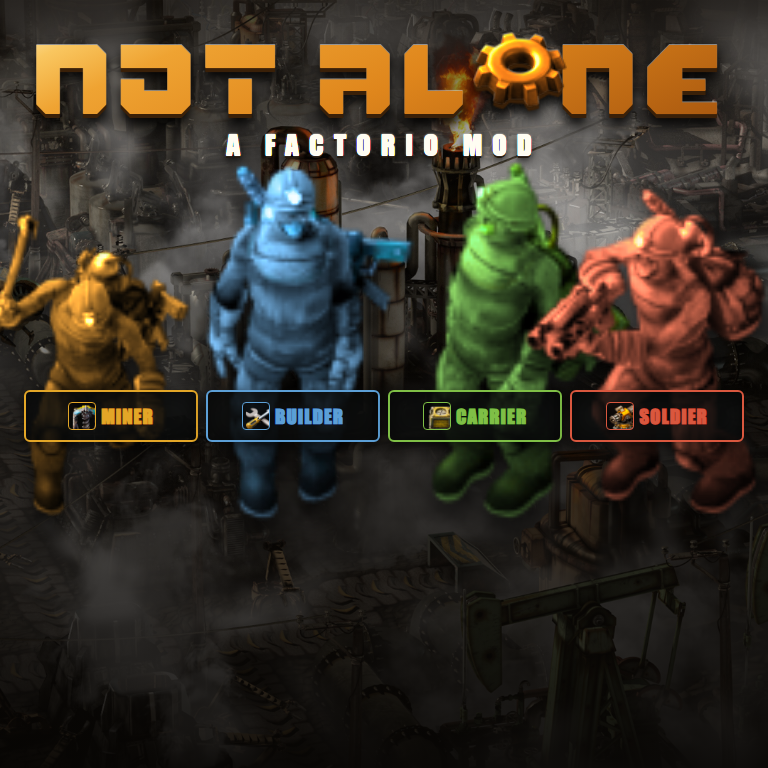
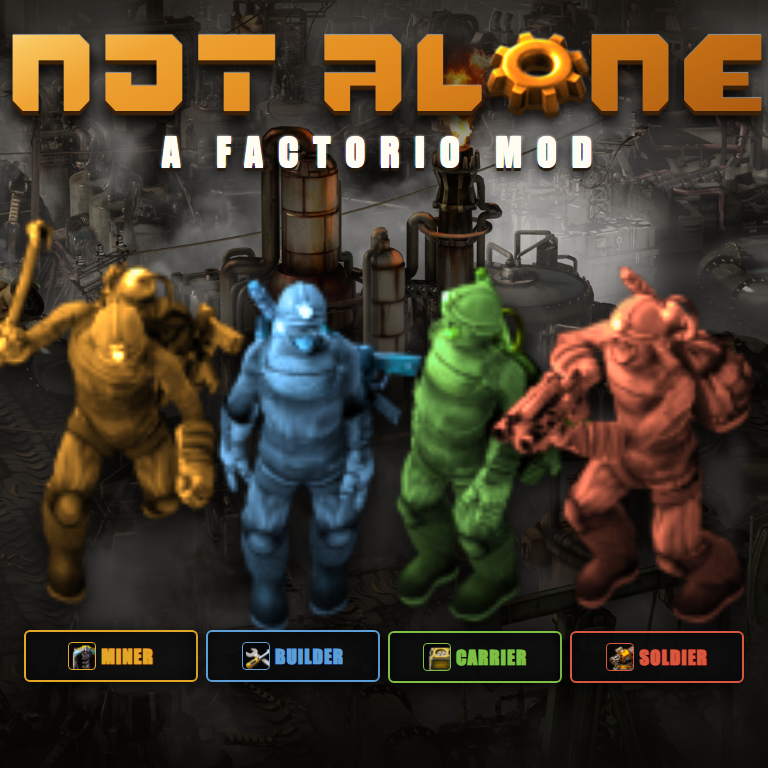
Add wheel scaling and persistent edit profile for image builder

diff --git a/image-builder/banner.html b/image-builder/banner.html
@@ -6,6 +6,7 @@
 * { box-sizing: border-box; margin: 0; }
 html, body { width: 1152px; height: 768px; overflow: hidden; }
 body { position: relative; font-family: "Arial Narrow", Arial, sans-serif; background: #1a1611; }
+@font-face { font-family: "Full Automation"; src: url("assets/FullAutomation-Squared.otf") format("opentype"); font-weight: normal; font-style: normal; }
 
 /* Real game menu-background screenshot, darkened toward the card band */
 .bg { position: absolute; inset: 0; background: url("assets/bg.jpg") center/cover; }
@@ -14,11 +15,11 @@ body { position: relative; font-family: "Arial Narrow", Arial, sans-serif; backg
 
 /* Title: stone-orange Factorio-style lettering, gear sprite as the O of ALONE */
 .title { position: absolute; z-index: 3; top: 18px; left: 0; right: 0; text-align: center;
-  font-family: Impact, "Arial Black", sans-serif; font-size: 132px; line-height: 1; letter-spacing: 8px;
+  font-family: "Full Automation", Impact, "Arial Black", sans-serif; font-size: 132px; line-height: 1; letter-spacing: 8px;
   color: #e08a1e;
-  background: linear-gradient(180deg, #f5b34a 8%, #e08a1e 45%, #9c5410 88%);
+  background: linear-gradient(155deg, #ffe9ad 4%, #f9c65f 12%, #efa332 24%, #df861c 52%, #a9580f 92%);
   -webkit-background-clip: text; -webkit-text-fill-color: transparent;
-  filter: drop-shadow(0 4px 0 #3a2008) drop-shadow(0 7px 6px rgba(0,0,0,.85)); }
+  filter: drop-shadow(0 -1px 0 rgba(255,255,255,.45)) drop-shadow(0 4px 0 #3a2008) drop-shadow(0 7px 6px rgba(0,0,0,.85)); }
 .title .gear { display: inline-block; width: 128px; height: 128px; vertical-align: -8px; margin: 0 -8px;
   background: url("assets/gear.png") no-repeat 0 0; background-size: 240px 128px;
   filter: sepia(1) saturate(4.2) hue-rotate(-14deg) brightness(1.02); }
@@ -60,38 +61,40 @@ body { position: relative; font-family: "Arial Narrow", Arial, sans-serif; backg
 .slogan b { display: block; font-family: Impact, "Arial Black", sans-serif; font-size: 37px; letter-spacing: 2.5px; color: #e0961f; text-shadow: 0 3px 0 #2a1a08; }
 .slogan span { display: block; margin-top: 4px; font-size: 20px; letter-spacing: 3.5px; color: #cbc4b4; font-weight: bold; }
 .brand { width: 220px; height: 43px; margin-right: 22px; background: url("assets/logo.png") no-repeat center/contain; }
+[data-drag] { cursor: grab; touch-action: none; }
+[data-drag].is-dragging { cursor: grabbing; }
 </style>
 </head>
 <body>
   <div class="bg"></div>
 
-  <div class="title">NOT&nbsp;AL<span class="gear"></span>NE</div>
-  <div class="subtitle">A&nbsp;FACTORIO&nbsp;MOD</div>
+  <div class="title" data-drag="title">NOT&nbsp;AL<span class="gear" data-drag="gear"></span>NE</div>
+  <div class="subtitle" data-drag="subtitle">A&nbsp;FACTORIO&nbsp;MOD</div>
 
   <div class="factory">
-    <div class="sprite mate mate-mining"></div>
-    <div class="sprite mate mate-idle-1"></div>
-    <div class="sprite mate mate-idle-2"></div>
-    <div class="sprite mate mate-gun"></div>
+    <div class="sprite mate mate-mining" data-drag="miner"></div>
+    <div class="sprite mate mate-idle-1" data-drag="builder"></div>
+    <div class="sprite mate mate-idle-2" data-drag="carrier"></div>
+    <div class="sprite mate mate-gun" data-drag="soldier"></div>
   </div>
 
   <div class="cards">
-    <div class="card" style="--c:#e3a627">
+    <div class="card" data-drag="miner-card" style="--c:#e3a627">
       <div class="head"><div class="icon" style="background-image:url('assets/icon-miner.png')"></div><b>MINER</b></div>
       <p>Extracts resources from the ground.</p>
       <ul><li>Mines ore</li><li>Works mining drills</li><li>Gathers raw materials</li></ul>
     </div>
-    <div class="card" style="--c:#5c9fd6">
+    <div class="card" data-drag="builder-card" style="--c:#5c9fd6">
       <div class="head"><div class="icon" style="background-image:url('assets/icon-builder.png')"></div><b>BUILDER</b></div>
       <p>Builds and repairs structures.</p>
       <ul><li>Places entities</li><li>Repairs damage</li><li>Constructs the factory</li></ul>
     </div>
-    <div class="card" style="--c:#7fbf46">
+    <div class="card" data-drag="carrier-card" style="--c:#7fbf46">
       <div class="head"><div class="icon" style="background-image:url('assets/icon-carrier.png')"></div><b>CARRIER</b></div>
       <p>Moves items where they need to go.</p>
       <ul><li>Carries items</li><li>Feeds machines</li><li>Supports logistics</li></ul>
     </div>
-    <div class="card" style="--c:#d9573e">
+    <div class="card" data-drag="soldier-card" style="--c:#d9573e">
       <div class="head"><div class="icon" style="background-image:url('assets/icon-soldier.png')"></div><b>SOLDIER</b></div>
       <p>Protects the crew and the factory.</p>
       <ul><li>Fights biters</li><li>Defends bases</li><li>Keeps everyone alive</li></ul>
@@ -106,4 +109,123 @@ body { position: relative; font-family: "Arial Narrow", Arial, sans-serif; backg
     <div class="brand"></div>
   </div>
 </body>
+<script>
+(() => {
+  const storageKey = "not-alone-layout-v1";
+  const layoutName = "banner";
+  const historyKey = `${storageKey}-history`;
+  const stored = JSON.parse(localStorage.getItem(storageKey) || "{}");
+  const legacy = JSON.parse(localStorage.getItem("not-alone-banner-layout-v1") || "{}");
+  const saved = stored[layoutName] || legacy;
+  const history = JSON.parse(localStorage.getItem(historyKey) || "[]");
+  const elements = new Map();
+
+  const save = () => {
+    stored[layoutName] = saved;
+    localStorage.setItem(storageKey, JSON.stringify(stored));
+  };
+  const saveHistory = () => localStorage.setItem(historyKey, JSON.stringify(history));
+  const applyOffset = (element, name) => {
+    const offset = saved[name] || {x: 0, y: 0, scale: 1};
+    if (offset.scale === undefined) offset.scale = 1;
+    saved[name] = offset;
+    element.style.translate = `${offset.x}px ${offset.y}px`;
+    element.style.scale = String(offset.scale);
+  };
+  const record = (name, offset) => {
+    history.push({layout: layoutName, name, x: offset.x, y: offset.y, scale: offset.scale ?? 1});
+    if (history.length > 100) history.shift();
+    saveHistory();
+  };
+
+  document.querySelectorAll("[data-drag]").forEach((element) => {
+    const name = element.dataset.drag;
+    elements.set(name, element);
+    applyOffset(element, name);
+    element.addEventListener("pointerdown", (event) => {
+      if (name === "gear") event.stopPropagation();
+      element.setPointerCapture(event.pointerId);
+      element.classList.add("is-dragging");
+      const start = saved[name] || {x: 0, y: 0, scale: 1};
+      const originX = event.clientX;
+      const originY = event.clientY;
+      const axisLocked = event.ctrlKey;
+      let axis = null;
+      const move = (moveEvent) => {
+        const deltaX = moveEvent.clientX - originX;
+        const deltaY = moveEvent.clientY - originY;
+        if (axisLocked && !axis && (deltaX || deltaY)) {
+          axis = Math.abs(deltaX) >= Math.abs(deltaY) ? "x" : "y";
+        }
+        saved[name] = {
+          x: Math.round(start.x + (axis === "y" ? 0 : deltaX)),
+          y: Math.round(start.y + (axis === "x" ? 0 : deltaY)),
+          scale: start.scale ?? 1
+        };
+        applyOffset(element, name);
+      };
+      const end = () => {
+        element.classList.remove("is-dragging");
+        element.removeEventListener("pointermove", move);
+        element.removeEventListener("pointerup", end);
+        element.removeEventListener("pointercancel", end);
+        const finish = saved[name];
+        if (finish.x !== start.x || finish.y !== start.y) record(name, start);
+        save();
+      };
+      element.addEventListener("pointermove", move);
+      element.addEventListener("pointerup", end);
+      element.addEventListener("pointercancel", end);
+    });
+    element.addEventListener("dblclick", (event) => {
+      event.stopPropagation();
+      const previous = saved[name] || {x: 0, y: 0, scale: 1};
+      if (previous.x || previous.y || previous.scale !== 1) record(name, previous);
+      saved[name] = {x: 0, y: 0, scale: 1};
+      applyOffset(element, name);
+      save();
+    });
+    let wheelStart = null;
+    let wheelTimer = null;
+    element.addEventListener("wheel", (event) => {
+      event.preventDefault();
+      event.stopPropagation();
+      const current = saved[name] || {x: 0, y: 0, scale: 1};
+      if (current.scale === undefined) current.scale = 1;
+      if (!wheelStart) wheelStart = {x: current.x, y: current.y, scale: current.scale};
+      const factor = event.deltaY < 0 ? 1.05 : 1 / 1.05;
+      const nextScale = Math.min(6, Math.max(0.15, Math.round(current.scale * factor * 100) / 100));
+      saved[name] = {x: current.x, y: current.y, scale: nextScale};
+      applyOffset(element, name);
+      clearTimeout(wheelTimer);
+      wheelTimer = setTimeout(() => {
+        if (saved[name].scale !== wheelStart.scale) record(name, wheelStart);
+        wheelStart = null;
+        save();
+      }, 400);
+    }, {passive: false});
+  });
+
+  document.addEventListener("keydown", (event) => {
+    if (!(event.ctrlKey && event.key.toLowerCase() === "z") || event.repeat) return;
+    event.preventDefault();
+    let actionIndex = -1;
+    for (let index = history.length - 1; index >= 0; index -= 1) {
+      if (history[index].layout === layoutName || !history[index].layout) {
+        actionIndex = index;
+        break;
+      }
+    }
+    if (actionIndex < 0) return;
+    const action = history.splice(actionIndex, 1)[0];
+    if (!action) return;
+    const element = elements.get(action.name);
+    if (!element) return;
+    saved[action.name] = {x: action.x, y: action.y, scale: action.scale ?? 1};
+    applyOffset(element, action.name);
+    save();
+    saveHistory();
+  });
+})();
+</script>
 </html>

diff --git a/image-builder/thumbnail.html b/image-builder/thumbnail.html
@@ -90,21 +90,29 @@ body { position: relative; font-family: "Arial Narrow", Arial, sans-serif; backg
 </body>
 <script>
 (() => {
-  const storageKey = "not-alone-thumbnail-layout-v1";
+  const storageKey = "not-alone-layout-v1";
+  const layoutName = "thumbnail";
   const historyKey = `${storageKey}-history`;
-  const saved = JSON.parse(localStorage.getItem(storageKey) || "{}");
+  const stored = JSON.parse(localStorage.getItem(storageKey) || "{}");
+  const legacy = JSON.parse(localStorage.getItem("not-alone-thumbnail-layout-v1") || "{}");
+  const saved = stored[layoutName] || legacy;
   const history = JSON.parse(localStorage.getItem(historyKey) || "[]");
   const elements = new Map();
 
-  const save = () => localStorage.setItem(storageKey, JSON.stringify(saved));
+  const save = () => {
+    stored[layoutName] = saved;
+    localStorage.setItem(storageKey, JSON.stringify(stored));
+  };
   const saveHistory = () => localStorage.setItem(historyKey, JSON.stringify(history));
   const applyOffset = (element, name) => {
-    const offset = saved[name] || {x: 0, y: 0};
+    const offset = saved[name] || {x: 0, y: 0, scale: 1};
+    if (offset.scale === undefined) offset.scale = 1;
     saved[name] = offset;
     element.style.translate = `${offset.x}px ${offset.y}px`;
+    element.style.scale = String(offset.scale);
   };
   const record = (name, offset) => {
-    history.push({name, x: offset.x, y: offset.y});
+    history.push({layout: layoutName, name, x: offset.x, y: offset.y, scale: offset.scale ?? 1});
     if (history.length > 100) history.shift();
     saveHistory();
   };
@@ -117,7 +125,7 @@ body { position: relative; font-family: "Arial Narrow", Arial, sans-serif; backg
       if (name === "gear") event.stopPropagation();
       element.setPointerCapture(event.pointerId);
       element.classList.add("is-dragging");
-      const start = saved[name] || {x: 0, y: 0};
+      const start = saved[name] || {x: 0, y: 0, scale: 1};
       const originX = event.clientX;
       const originY = event.clientY;
       const axisLocked = event.ctrlKey;
@@ -130,7 +138,8 @@ body { position: relative; font-family: "Arial Narrow", Arial, sans-serif; backg
         }
         saved[name] = {
           x: Math.round(start.x + (axis === "y" ? 0 : deltaX)),
-          y: Math.round(start.y + (axis === "x" ? 0 : deltaY))
+          y: Math.round(start.y + (axis === "x" ? 0 : deltaY)),
+          scale: start.scale ?? 1
         };
         applyOffset(element, name);
       };
@@ -149,22 +158,49 @@ body { position: relative; font-family: "Arial Narrow", Arial, sans-serif; backg
     });
     element.addEventListener("dblclick", (event) => {
       event.stopPropagation();
-      const previous = saved[name] || {x: 0, y: 0};
-      if (previous.x || previous.y) record(name, previous);
-      saved[name] = {x: 0, y: 0};
+      const previous = saved[name] || {x: 0, y: 0, scale: 1};
+      if (previous.x || previous.y || previous.scale !== 1) record(name, previous);
+      saved[name] = {x: 0, y: 0, scale: 1};
       applyOffset(element, name);
       save();
     });
+    let wheelStart = null;
+    let wheelTimer = null;
+    element.addEventListener("wheel", (event) => {
+      event.preventDefault();
+      event.stopPropagation();
+      const current = saved[name] || {x: 0, y: 0, scale: 1};
+      if (current.scale === undefined) current.scale = 1;
+      if (!wheelStart) wheelStart = {x: current.x, y: current.y, scale: current.scale};
+      const factor = event.deltaY < 0 ? 1.05 : 1 / 1.05;
+      const nextScale = Math.min(6, Math.max(0.15, Math.round(current.scale * factor * 100) / 100));
+      saved[name] = {x: current.x, y: current.y, scale: nextScale};
+      applyOffset(element, name);
+      clearTimeout(wheelTimer);
+      wheelTimer = setTimeout(() => {
+        if (saved[name].scale !== wheelStart.scale) record(name, wheelStart);
+        wheelStart = null;
+        save();
+      }, 400);
+    }, {passive: false});
   });
 
   document.addEventListener("keydown", (event) => {
     if (!(event.ctrlKey && event.key.toLowerCase() === "z") || event.repeat) return;
     event.preventDefault();
-    const action = history.pop();
+    let actionIndex = -1;
+    for (let index = history.length - 1; index >= 0; index -= 1) {
+      if (history[index].layout === layoutName || !history[index].layout) {
+        actionIndex = index;
+        break;
+      }
+    }
+    if (actionIndex < 0) return;
+    const action = history.splice(actionIndex, 1)[0];
     if (!action) return;
     const element = elements.get(action.name);
     if (!element) return;
-    saved[action.name] = {x: action.x, y: action.y};
+    saved[action.name] = {x: action.x, y: action.y, scale: action.scale ?? 1};
     applyOffset(element, action.name);
     save();
     saveHistory();
